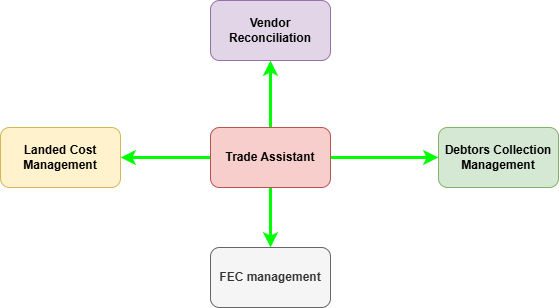
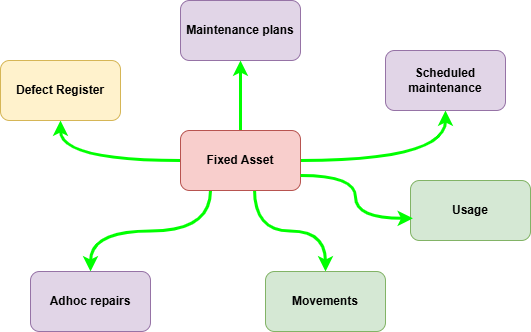
redo map

diff --git a/README.md b/README.md
@@ -3,6 +3,8 @@ Trade Assistant brings together useful functions related to the management of Su
 
 ![alt text](Overview.drawio.png)
 
+--
+
 ![alt text](image.png)
 
 ## [Vendor Reconciliation](VendorRecon/VendorRecon.md)